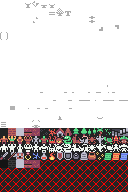
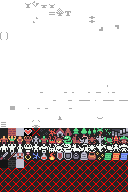
adjust colors and update health info

Changed region(s): [[0.1875, 0.8125, 0.3125, 0.875], [0.1875, 0.6562, 0.3125, 0.7188]]

diff --git a/game/map_objects/game_map.py b/game/map_objects/game_map.py
@@ -91,7 +91,7 @@ class GameMap:
                 num_rooms += 1
 
         stairs_component = Stairs(self.dungeon_level + 1)
-        down_stairs = Entity(center_of_last_room_x, center_of_last_room_y, STAIRS_DOWN, libtcod.white, 'Stairs', render_order=RenderOrder.STAIRS, stairs=stairs_component)
+        down_stairs = Entity(center_of_last_room_x, center_of_last_room_y, STAIRS_DOWN, 'Stairs', render_order=RenderOrder.STAIRS, stairs=stairs_component)
         entities.append(down_stairs)
 
     def create_room(self, room):
@@ -142,11 +142,11 @@ class GameMap:
                 if monster_choice == 'orc':
                     fighter_component = Fighter(hp=20, defense=0, power=4, xp=35)
                     ai_component = BasicMonster()
-                    monster = Entity(x, y, ORC, libtcod.darker_green, 'Orc', blocks=True, render_order=RenderOrder.ACTOR, fighter=fighter_component, ai=ai_component)
+                    monster = Entity(x, y, ORC, 'Orc', blocks=True, render_order=RenderOrder.ACTOR, fighter=fighter_component, ai=ai_component)
                 else:
                     fighter_component = Fighter(hp=30, defense=2, power=8, xp=100)
                     ai_component = BasicMonster()
-                    monster = Entity(x, y, SKELETON, libtcod.dark_violet, 'Skeleton', blocks=True, render_order=RenderOrder.ACTOR, fighter=fighter_component, ai=ai_component)
+                    monster = Entity(x, y, SKELETON, 'Skeleton', blocks=True, render_order=RenderOrder.ACTOR, fighter=fighter_component, ai=ai_component)
 
                 entities.append(monster)
 
@@ -158,22 +158,22 @@ class GameMap:
                 item_choice = random_choice_from_dict(item_chances)
                 if item_choice == 'healing_potion':
                     item_component = Item(use_function=heal, amount=40)
-                    item = Entity(x, y, HEALING_POT, libtcod.dark_red, 'Healing Potion', render_order=RenderOrder.ITEM, item=item_component)
+                    item = Entity(x, y, HEALING_POT, 'Healing Potion', render_order=RenderOrder.ITEM, item=item_component)
                 elif item_choice == 'sword':
                     equippable_component = Equippable(EquipmentSlots.MAIN_HAND, power_bonus=3)
-                    item = Entity(x, y, SWORD, libtcod.darker_orange, 'Sword', equippable=equippable_component)
+                    item = Entity(x, y, SWORD, 'Sword', equippable=equippable_component)
                 elif item_choice == 'shield':
                     equippable_component = Equippable(EquipmentSlots.OFF_HAND, defense_bonus=1)
-                    item = Entity(x, y, SHIELD, libtcod.darker_orange, 'Shield', equippable=equippable_component)
+                    item = Entity(x, y, SHIELD, 'Shield', equippable=equippable_component)
                 elif item_choice == 'fireball_scroll':
-                    item_component = Item(use_function=cast_fireball, targeting=True, targeting_message=Message('Left-click a target tile for the fireball, or right-click to cancel.', libtcod.light_cyan), damage=25, radius=3)
-                    item = Entity(x, y, FIRE_SCROLL, libtcod.red, 'Fireball Scroll', render_order=RenderOrder.ITEM, item=item_component)
+                    item_component = Item(use_function=cast_fireball, targeting=True, targeting_message=Message('Left-click a target tile for the fireball, or right-click to cancel.', libtcod.Color(134,167,237)), damage=25, radius=3)
+                    item = Entity(x, y, FIRE_SCROLL, 'Fireball Scroll', render_order=RenderOrder.ITEM, item=item_component)
                 elif item_choice == 'confusion_scroll':
-                    item_component = Item(use_function=cast_confuse, targeting=True, targeting_message=Message( 'Left-click an enemy to confuse it, or right-click to cancel.', libtcod.light_cyan))
-                    item = Entity(x, y, CONF_SCROLL, libtcod.light_pink, 'Confusion Scroll', render_order=RenderOrder.ITEM, item=item_component)
+                    item_component = Item(use_function=cast_confuse, targeting=True, targeting_message=Message( 'Left-click an enemy to confuse it, or right-click to cancel.', libtcod.Color(134,167,237)))
+                    item = Entity(x, y, CONF_SCROLL, 'Confusion Scroll', render_order=RenderOrder.ITEM, item=item_component)
                 else:
                     item_component = Item(use_function=cast_lightning, damage=40, maximum_range=5)
-                    item = Entity(x, y, LIGHT_SCROLL, libtcod.yellow, 'Lightning Scroll', render_order=RenderOrder.ITEM, item=item_component)
+                    item = Entity(x, y, LIGHT_SCROLL, 'Lightning Scroll', render_order=RenderOrder.ITEM, item=item_component)
 
                 entities.append(item)
 
@@ -192,6 +192,6 @@ class GameMap:
 
         player.fighter.heal(player.fighter.max_hp // 2)
 
-        message_log.add_message(Message('You take a moment to rest, and recover your strength.', libtcod.light_violet))
+        message_log.add_message(Message('You take a moment to rest, and recover your strength.', libtcod.Color(140,63,93)))
 
         return entities

diff --git a/game/item_functions.py b/game/item_functions.py
@@ -10,10 +10,10 @@ def heal(*args, **kwargs):
     results = []
 
     if entity.fighter.hp == entity.fighter.max_hp:
-        results.append({'consumed': False, 'message': Message('You are already at full health', libtcod.yellow)})
+        results.append({'consumed': False, 'message': Message('You are already at full health', libtcod.Color(255,228,120))})
     else:
         entity.fighter.heal(amount)
-        results.append({'consumed': True, 'message': Message('Your wounds start to feel better!', libtcod.green)})
+        results.append({'consumed': True, 'message': Message('Your wounds start to feel better!', libtcod.Color(93,222,135))})
 
     return results
 
@@ -41,7 +41,7 @@ def cast_lightning(*args, **kwargs):
         results.append({'consumed': True, 'target': target, 'message': Message('A lighting bolt strikes the {0} with a loud thunder! The damage is {1}.'.format(target.name, damage))})
         results.extend(target.fighter.take_damage(damage))
     else:
-        results.append({'consumed': False, 'target': None, 'message': Message('No enemy is close enough to strike.', libtcod.red)})
+        results.append({'consumed': False, 'target': None, 'message': Message('No enemy is close enough to strike.', libtcod.Color(235,86,75))})
 
     return results
 
@@ -56,14 +56,14 @@ def cast_fireball(*args, **kwargs):
     results = []
 
     if not libtcod.map_is_in_fov(fov_map, target_x, target_y):
-        results.append({'consumed': False, 'message': Message('You cannot target a tile outside your field of view.', libtcod.yellow)})
+        results.append({'consumed': False, 'message': Message('You cannot target a tile outside your field of view.', libtcod.Color(255,228,120))})
         return results
 
-    results.append({'consumed': True, 'message': Message('The fireball explodes, burning everything within {0} tiles!'.format(radius), libtcod.orange)})
+    results.append({'consumed': True, 'message': Message('The fireball explodes, burning everything within {0} tiles!'.format(radius), libtcod.Color(242,166,94))})
 
     for entity in entities:
         if entity.distance(target_x, target_y) <= radius and entity.fighter:
-            results.append({'message': Message('The {0} gets burned for {1} hit points.'.format(entity.name, damage), libtcod.orange)})
+            results.append({'message': Message('The {0} gets burned for {1} hit points.'.format(entity.name, damage), libtcod.Color(242,166,94))})
             results.extend(entity.fighter.take_damage(damage))
 
     return results
@@ -77,7 +77,7 @@ def cast_confuse(*args, **kwargs):
     results = []
 
     if not libtcod.map_is_in_fov(fov_map, target_x, target_y):
-        results.append({'consumed': False, 'message': Message('You cannot target a tile outside your field of view.', libtcod.yellow)})
+        results.append({'consumed': False, 'message': Message('You cannot target a tile outside your field of view.', libtcod.Color(255,228,120))})
         return results
 
     for entity in entities:
@@ -87,9 +87,9 @@ def cast_confuse(*args, **kwargs):
             confused_ai.owner = entity
             entity.ai = confused_ai
 
-            results.append({'consumed': True, 'message': Message('The eyes of the {0} look vacant, as he starts to stumble around!'.format(entity.name), libtcod.light_green)})
+            results.append({'consumed': True, 'message': Message('The eyes of the {0} look vacant, as he starts to stumble around!'.format(entity.name), libtcod.Color(93,222,135))})
             break
     else:
-        results.append({'consumed': False, 'message': Message('There is no targetable enemy at that location.', libtcod.yellow)})
+        results.append({'consumed': False, 'message': Message('There is no targetable enemy at that location.', libtcod.Color(255,228,120))})
 
     return results

diff --git a/game/render_functions.py b/game/render_functions.py
@@ -19,20 +19,28 @@ def get_names_under_mouse(mouse, entities, fov_map):
 
     return names.capitalize()
 
-def render_bar(panel, x, y, total_width, name, value, maximum, bar_color, back_color):
-    bar_width = int(float(value) / maximum * total_width)
+def render_health(panel, x, y, name, value, maximum, good_color, ok_color, bad_color):
+#TODO: heart
+    default_color = libtcod.Color(194,194,209)
+    libtcod.console_set_default_foreground(panel, default_color)
+    libtcod.console_put_char(panel, x, y, HEART, libtcod.BKGND_NONE)
 
-    libtcod.console_set_default_background(panel, back_color)
-    libtcod.console_rect(panel, x, y, total_width, 1, False, libtcod.BKGND_SCREEN)
+    val_length = len(str(value))
 
-    libtcod.console_set_default_background(panel, bar_color)
-    if bar_width > 0:
-        libtcod.console_rect(panel, x, y, bar_width, 1, False, libtcod.BKGND_SCREEN)
+    if value / float(maximum) > 0.75:
+        color = good_color
+    elif value / float(maximum) > 0.25:
+        color = ok_color
+    else:
+        color = bad_color
 
-    libtcod.console_set_default_foreground(panel, libtcod.white)
-    libtcod.console_print_ex(panel, int(x + total_width / 2), y, libtcod.BKGND_NONE, libtcod.CENTER, '{0}: {1}/{2}'.format(name, value, maximum))
+    libtcod.console_set_default_foreground(panel, color)
 
-def render_all(con, panel, entities, player, game_map, fov_map, message_log, screen_width, screen_height, bar_width, panel_height, panel_y, mouse, game_state):
+    libtcod.console_print_ex(panel, x + 1, y, libtcod.BKGND_NONE, libtcod.LEFT, '{:4}'.format(value))
+    libtcod.console_set_default_foreground(panel, default_color)
+    libtcod.console_print_ex(panel, x + 5, y, libtcod.BKGND_NONE, libtcod.LEFT, '/{}'.format(maximum))
+
+def render_all(con, panel, entities, player, game_map, fov_map, message_log, screen_width, screen_height, panel_height, panel_y, mouse, game_state):
     for y in range(game_map.height):
         for x in range(game_map.width):
             visible = libtcod.map_is_in_fov(fov_map, x, y)
@@ -67,11 +75,11 @@ def render_all(con, panel, entities, player, game_map, fov_map, message_log, scr
         libtcod.console_print_ex(panel, message_log.x, y, libtcod.BKGND_NONE, libtcod.LEFT, message.text)
         y += 1
 
-    render_bar(panel, 1, 1, bar_width, 'HP', player.fighter.hp, player.fighter.max_hp, libtcod.light_red, libtcod.darker_red)
+    render_health(panel, 1, 2, 'HP', player.fighter.hp, player.fighter.max_hp, libtcod.Color(60,163,112), libtcod.Color(242,166,94), libtcod.Color(235,86,75))
 
-    libtcod.console_print_ex(panel, 1, 3, libtcod.BKGND_NONE, libtcod.LEFT, 'Dungeon level: {0}'.format(game_map.dungeon_level))
+    libtcod.console_print_ex(panel, 1, 4, libtcod.BKGND_NONE, libtcod.LEFT, 'Dungeon Level: {0}'.format(game_map.dungeon_level))
 
-    libtcod.console_set_default_foreground(panel, libtcod.light_gray)
+    libtcod.console_set_default_foreground(panel, libtcod.Color(126,126,143))
     libtcod.console_print_ex(panel, 1, 0, libtcod.BKGND_NONE, libtcod.LEFT, get_names_under_mouse(mouse, entities, fov_map))
 
     libtcod.console_blit(panel, 0, 0, screen_width, panel_height, 0, 0, panel_y)

diff --git a/main.py b/main.py
@@ -40,7 +40,7 @@ def play_game(player, entities, game_map, message_log, game_state, con, panel, c
         if fov_recompute:
             recompute_fov(fov_map, player.x, player.y, constants['fov_radius'], constants['fov_light_walls'], constants['fov_algorithm'])
 
-        render_all(con,panel,entities, player, game_map, fov_map, message_log, constants['screen_width'], constants['screen_height'], constants['bar_width'], constants['panel_height'], constants['panel_y'], mouse, game_state)
+        render_all(con,panel,entities, player, game_map, fov_map, message_log, constants['screen_width'], constants['screen_height'], constants['panel_height'], constants['panel_y'], mouse, game_state)
         fov_recompute = False
 
         libtcod.console_flush()
@@ -96,7 +96,7 @@ def play_game(player, entities, game_map, message_log, game_state, con, panel, c
                     player_turn_results.extend(pickup_results)
                     break
             else:
-                message_log.add_message(Message('There is nothing here to pick up.', libtcod.yellow))
+                message_log.add_message(Message('There is nothing here to pick up.', libtcod.Color(255, 228, 120)))
 
         if show_inventory:
             previous_game_state = game_state
@@ -122,7 +122,7 @@ def play_game(player, entities, game_map, message_log, game_state, con, panel, c
                     libtcod.console_clear(con)
                     break
             else:
-                message_log.add_message(Message('There are no stairs here.', libtcod.yellow))
+                message_log.add_message(Message('There are no stairs here.', libtcod.Color(255, 228, 120)))
 
         if level_up:
             if level_up == 'hp':
@@ -182,7 +182,7 @@ def play_game(player, entities, game_map, message_log, game_state, con, panel, c
                 message_log.add_message(Message('You gain {0} experience points.'.format(xp)))
 
                 if leveled_up:
-                    message_log.add_message(Message('Your battle skills grow stronger! You reached level {0}'.format(player.level.current_level) + '!', libtcod.yellow))
+                    message_log.add_message(Message('Your battle skills grow stronger! You reached level {0}'.format(player.level.current_level) + '!', libtcod.Color(255, 228, 120)))
                     previous_game_state = game_state
                     game_state = GameStates.LEVEL_UP
 

diff --git a/game/components/inventory.py b/game/components/inventory.py
@@ -13,12 +13,12 @@ class Inventory:
         if len(self.items) >= self.capacity:
             results.append({
                 'item_added': None,
-                'message': Message('You cannot carry any more, your inventory is full.', libtcod.yellow)
+                'message': Message('You cannot carry any more, your inventory is full.', libtcod.Color(255, 228, 120))
             })
         else:
             results.append({
                 'item_added': item,
-                'message': Message('You pick up the {0}!'.format(item.name), libtcod.blue)
+                'message': Message('You pick up the {0}!'.format(item.name), libtcod.Color(100,118,232))
             })
 
             self.items.append(item)
@@ -35,7 +35,7 @@ class Inventory:
             if equippable_component:
                 results.append({'equip': item_entity})
             else:
-                results.append({'message': Message('The {0} cannot be used.'.format(item_entity.name), libtcod.yellow)})
+                results.append({'message': Message('The {0} cannot be used.'.format(item_entity.name), libtcod.Color(255, 228, 120))})
         else:
             if item_component.targeting and not (kwargs.get('target_x') or kwargs.get('target_y')):
                 results.append({'targeting': item_entity})
@@ -64,7 +64,7 @@ class Inventory:
         item.y = self.owner.y
 
         self.remove_item(item)
-        results.append({'item_dropped': item, 'message': Message('You dropped the {0}.'.format(item.name), libtcod.yellow)})
+        results.append({'item_dropped': item, 'message': Message('You dropped the {0}.'.format(item.name), libtcod.Color(255, 228, 120))})
 
         return results
 

diff --git a/game/loader_functions/initialize_new_game.py b/game/loader_functions/initialize_new_game.py
@@ -19,12 +19,11 @@ def get_constants():
     screen_width = 64
     screen_height = 36
 
-    bar_width = 20
     panel_height = 7
     panel_y = screen_height - panel_height
 
-    message_x = bar_width + 2
-    message_width = screen_width - bar_width - 2
+    message_x = 20
+    message_width = screen_width - message_x
     message_height = panel_height - 1
 
     map_width = screen_width
@@ -45,7 +44,6 @@ def get_constants():
         'window_title': window_title,
         'screen_width': screen_width,
         'screen_height': screen_height,
-        'bar_width': bar_width,
         'panel_height': panel_height,
         'panel_y': panel_y,
         'message_x': message_x,
@@ -70,11 +68,11 @@ def get_game_variables(constants):
     inventory_component = Inventory(20)
     level_component = Level()
     equipment_component = Equipment()
-    player = Entity(0, 0, PLAYER, libtcod.dark_blue, 'Player', blocks=True, render_order=RenderOrder.ACTOR, fighter=fighter_component, inventory=inventory_component, level=level_component, equipment=equipment_component)
+    player = Entity(0, 0, PLAYER, 'Player', blocks=True, render_order=RenderOrder.ACTOR, fighter=fighter_component, inventory=inventory_component, level=level_component, equipment=equipment_component)
     entities = [player]
 
     equippable_component = Equippable(EquipmentSlots.MAIN_HAND, power_bonus=2)
-    axe = Entity(0, 0, AXE, libtcod.sky, 'Axe', equippable=equippable_component)
+    axe = Entity(0, 0, AXE, 'Axe', equippable=equippable_component)
     player.inventory.add_item(axe)
     player.equipment.toggle_equip(axe)
 

diff --git a/game/components/fighter.py b/game/components/fighter.py
@@ -54,10 +54,10 @@ class Fighter:
 
         if damage > 0:
             target.fighter.take_damage(damage)
-            results.append({'message': Message('{0} attacks {1} for {2} hit points.'.format(self.owner.name.capitalize(), target.name, str(damage)), libtcod.white)})
+            results.append({'message': Message('{0} attacks {1} for {2} hit points.'.format(self.owner.name.capitalize(), target.name, str(damage)), libtcod.Color(194,194,209))})
             results.extend(target.fighter.take_damage(damage))
         else:
-            results.append({'message': Message('{0} attacks {1} but does no damage.'.format(self.owner.name.capitalize(), target.name), libtcod.white)})
+            results.append({'message': Message('{0} attacks {1} but does no damage.'.format(self.owner.name.capitalize(), target.name), libtcod.Color(194,194,209))})
 
         return results
 

diff --git a/game/entity.py b/game/entity.py
@@ -8,11 +8,10 @@ class Entity:
     """
     A generic object to represent players, enemies, items, etc.
     """
-    def __init__(self, x, y, char, color, name, blocks=False, render_order=RenderOrder.CORPSE, fighter=None, ai=None, item=None, inventory=None, stairs=None, level=None, equipment=None, equippable=None):
+    def __init__(self, x, y, char, name, blocks=False, render_order=RenderOrder.CORPSE, fighter=None, ai=None, item=None, inventory=None, stairs=None, level=None, equipment=None, equippable=None):
         self.x = x
         self.y = y
         self.char = char
-        self.color = color
         self.name = name
         self.blocks = blocks
         self.render_order = render_order

diff --git a/game/death_functions.py b/game/death_functions.py
@@ -7,10 +7,10 @@ from loader_functions.tiles import *
 
 def kill_player(player):
     player.char = CORPSE
-    return Message('You died!', libtcod.red), GameStates.PLAYER_DEAD
+    return Message('You died!', libtcod.Color(235,86,75)), GameStates.PLAYER_DEAD
 
 def kill_monster(monster):
-    death_message = Message('{0} is dead!'.format(monster.name.capitalize()), libtcod.orange)
+    death_message = Message('{0} is dead!'.format(monster.name.capitalize()), libtcod.Color(235,86,75))
 
     monster.char = CORPSE
     monster.blocks = False

diff --git a/game/components/ai.py b/game/components/ai.py
@@ -38,6 +38,6 @@ class ConfusedMonster:
             self.number_of_turns -= 1
         else:
             self.owner.ai = self.previous_ai
-            results.append({'message': Message('The {0} is no longer confused!'.format(self.owner.name), libtcod.red)})
+            results.append({'message': Message('The {0} is no longer confused!'.format(self.owner.name), libtcod.Color(235,86,75))})
 
         return results

diff --git a/game/loader_functions/tiles.py b/game/loader_functions/tiles.py
@@ -14,3 +14,5 @@ HEALING_POT  = 309
 CONF_SCROLL  = 317
 FIRE_SCROLL  = 317
 LIGHT_SCROLL = 317
+HEART        = 259
+
